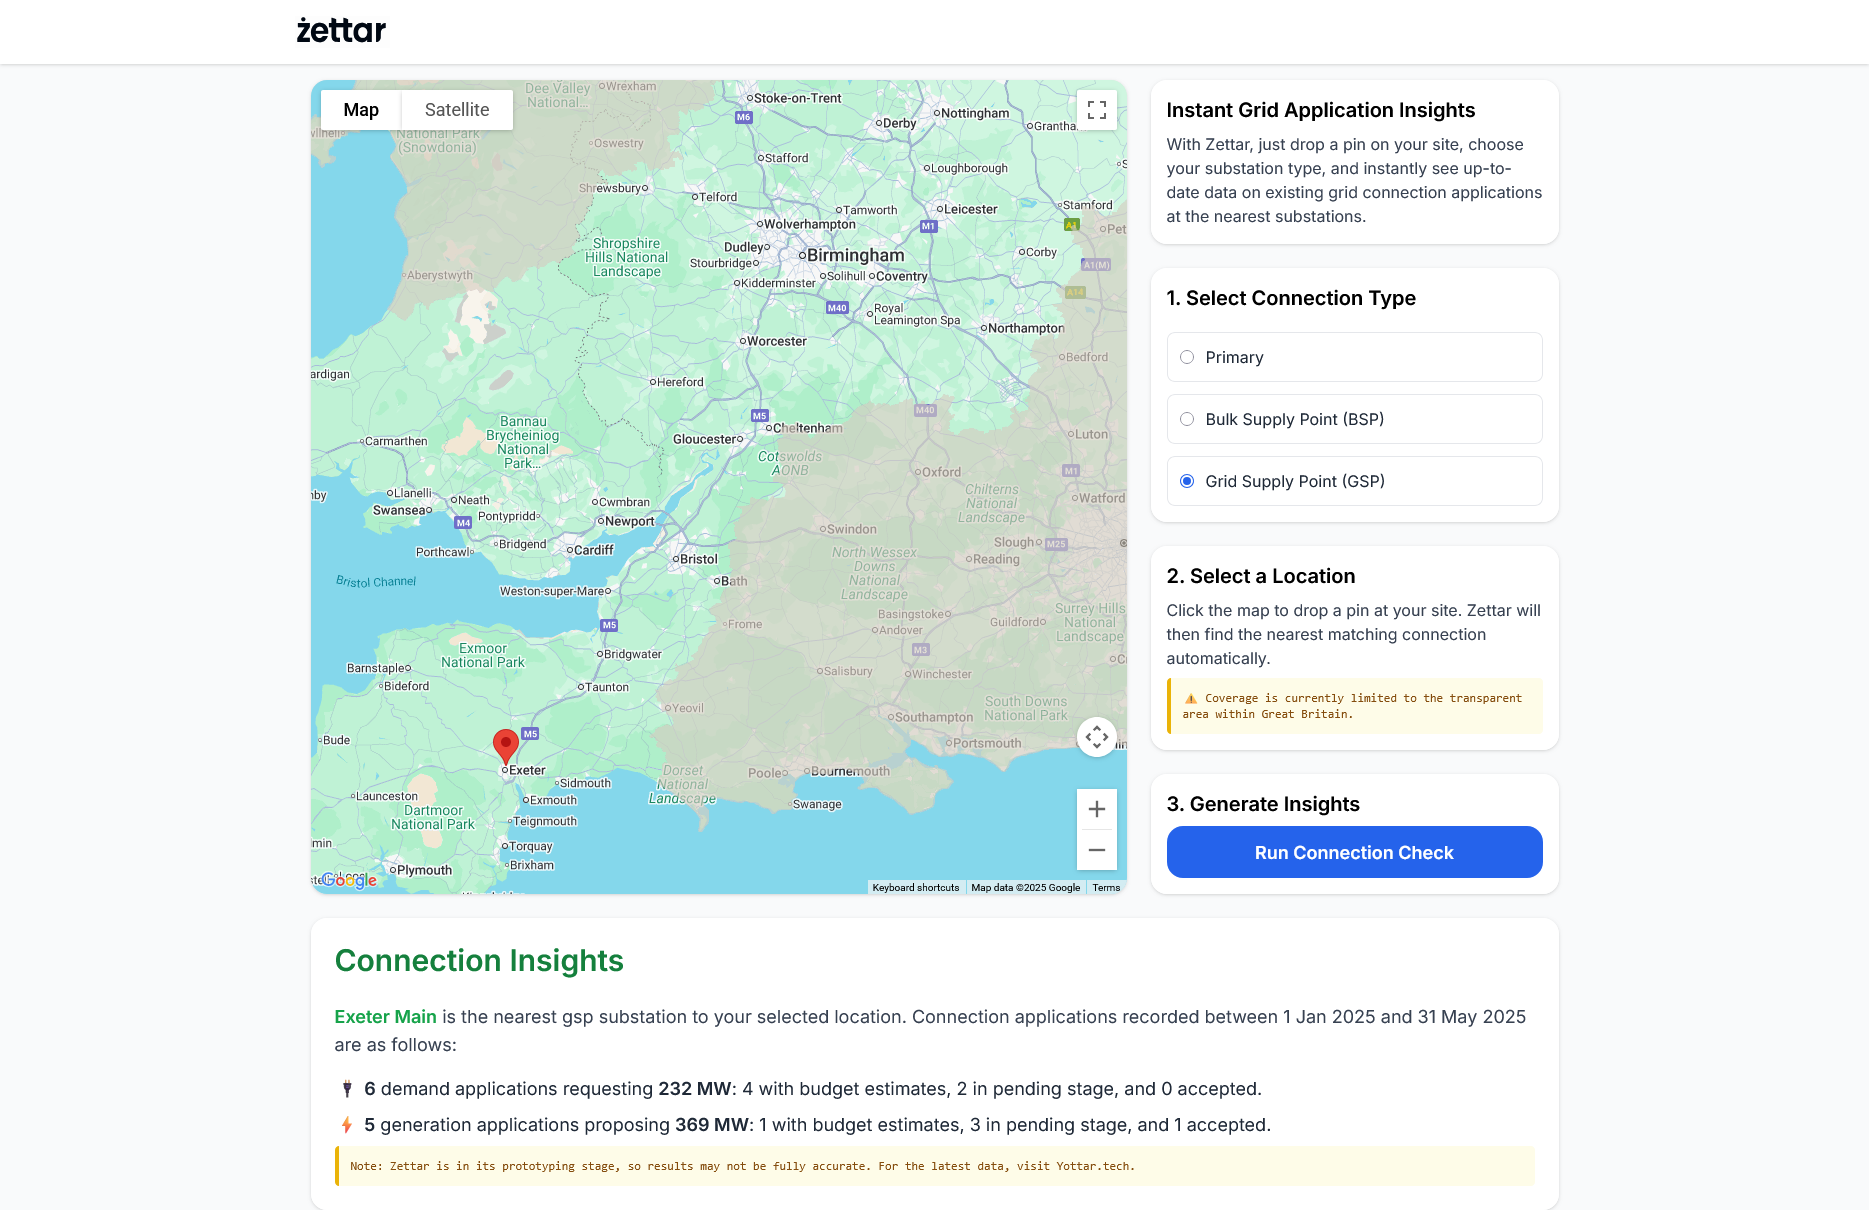
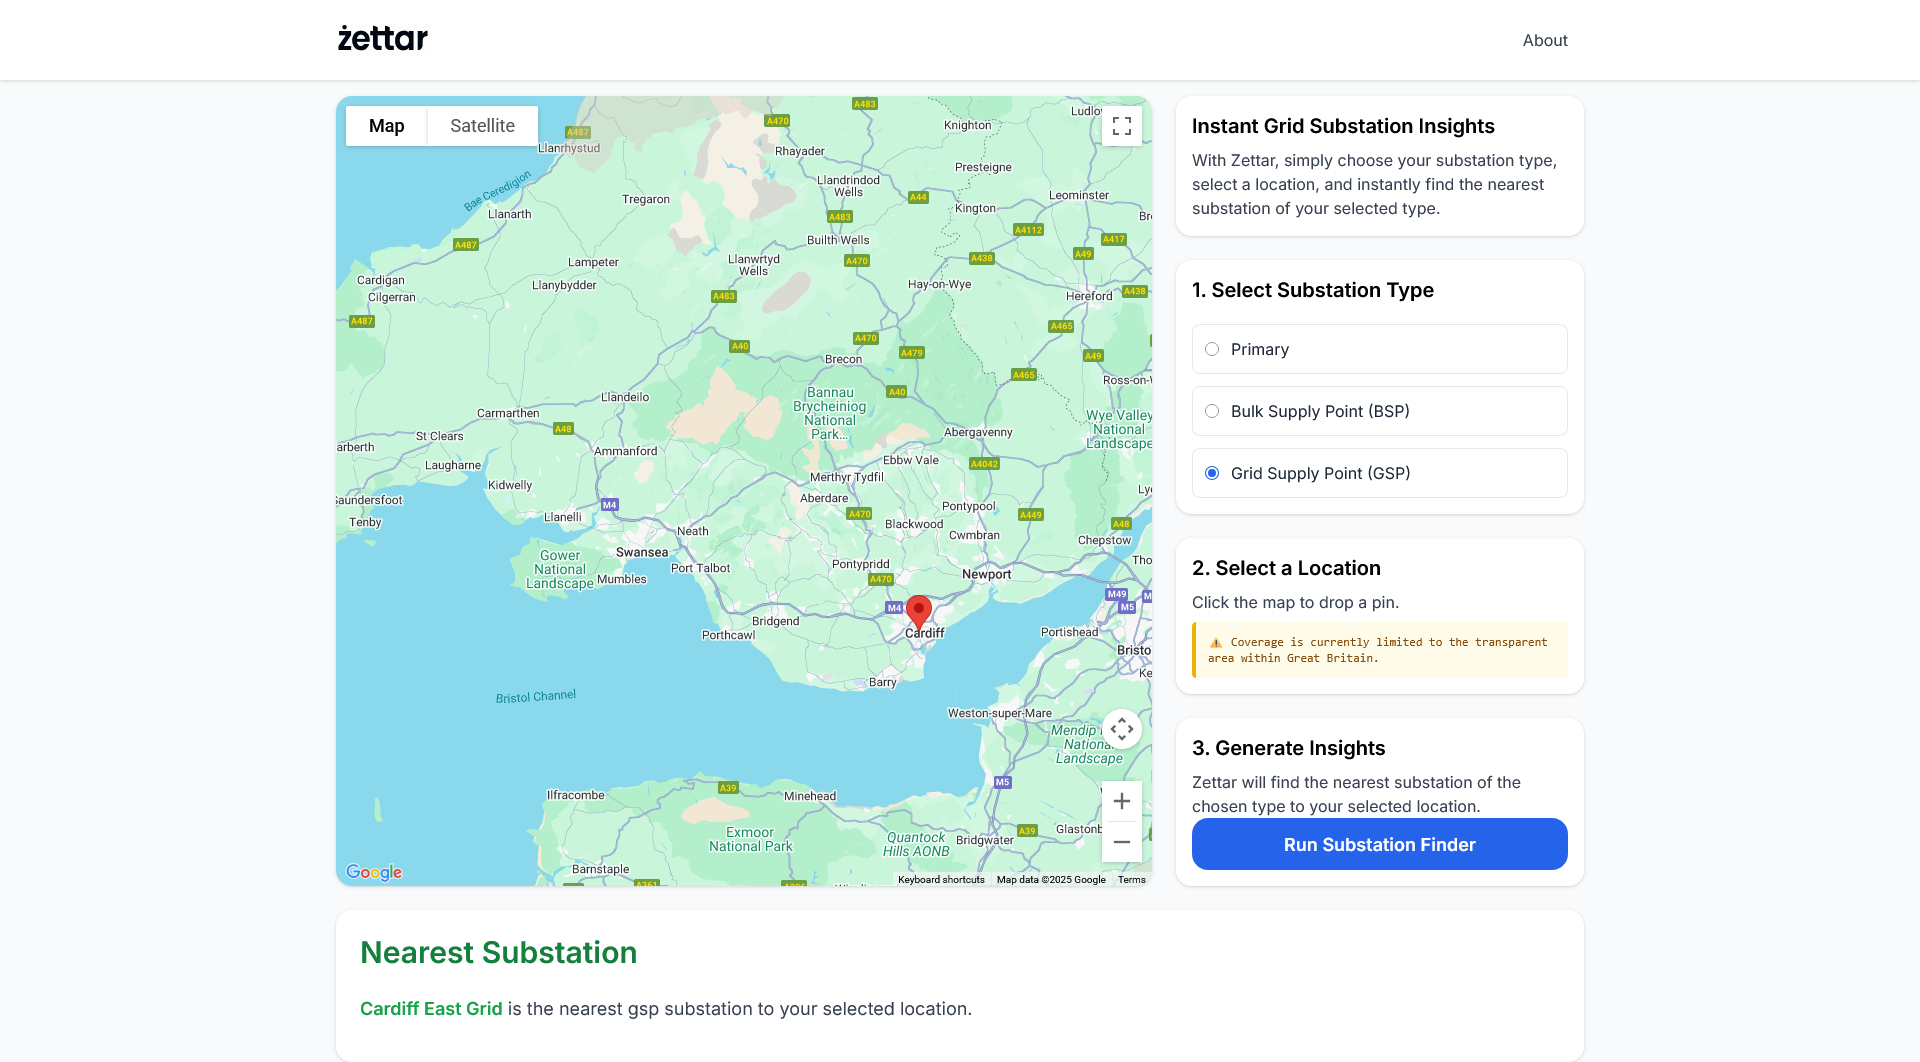
docs(README): update to account for change in scope

Changed region(s): [[0.1552, 0.0, 0.8379, 0.9633], [0.7758, 0.0311, 0.8068, 0.0621]]

diff --git a/docs/README.md b/docs/README.md
@@ -9,7 +9,7 @@
 </div>
 
 <p style="text-align: center;">
-  Zettar helps developers find viable grid connection points by turning messy DNO data into clean insights using geospatial technology and up-to-date application data. Available at <a href="https://www.zettar.tech" target="_blank">www.zettar.tech</a>.
+  Zettar helps individuals find their nearest electrical substation by turning messy DNO data into clean insights using geospatial technology. Available at <a href="https://www.zettar.tech" target="_blank">www.zettar.tech</a>.
 </p>
 
 ## 📷 Interface Preview  
@@ -19,15 +19,15 @@
 
 
 ## 📘 Product Overview
-Zettar is a platform that helps developers identify feasible Points of Connection (POCs) for new site projects - such as factories, renewable energy installations, or EV charging hubs - to the National Grid of Great Britain. It focuses specifically on analysing other applications at each connection point, cleaning and structuring raw, inconsistent DNO data into a standardised, easy‑to‑interpret format, making it instantly valuable for site selection.
+Zettar is a platform that helps users locate the nearest electrical substation by type. By entering a location and selecting a substation category (Primary, BSP, or GSP), users receive the closest matching substation.
 
-DNO application datasets are often released in messy, inconsistent formats, making it hard to understand current capacity or demand, or gauge how many projects are already in the queue. Zettar transforms this data into a clean, searchable, map‑based tool - giving developers a clear view of grid availability and enabling faster, smarter siting decisions.
+Substation location data from Distribution Network Operators (DNOs) is often messy and inconsistently formatted, making it difficult to identify nearby connection points. Zettar cleans and standardises this data into a searchable, map-based tool - offering a clear, reliable view of the grid’s infrastructure.
 
 ### Features
 
-- **Location & Connection Search:** Drop a pin and choose a connection type (Primary, BSP, or GSP) to find the nearest relevant substation.  
-- **Interactive Mapping:** Powered by the Google Maps API, the map-based UI makes it easy to explore potential sites visually.  
-- **Up-to-date DNO Data:** Displays generation and demand application data for substations including capacity, number of applicants, and application status.
+- **Location & Connection Search:** Drop a pin and choose a connection type (Primary, BSP, or GSP) to find the nearest relevant substation
+- **Interactive Mapping:** Powered by the Google Maps API, the map-based UI makes it easy to explore potential sites visually  
+- **Up-to-date DNO Data:** Retrieves the latest substation location data directly from DNO-provided sources, ensuring results reflect the most current network information
 
 
 
@@ -36,9 +36,8 @@ DNO application datasets are often released in messy, inconsistent formats, maki
 ###  Tech Stack
 - **Backend:** Python, Django  
 - **Frontend:** Alpine.js, Tailwind CSS  
-- **Database:** PostgreSQL with PostGIS extension  
-- **Data Sources:** National Grid DNO dataset (additional DNOs planned)  
-- **APIs:** Google Maps  
+- **Database:** PostgreSQL (PostGIS)  
+- **APIs:** Google Maps, OpenDataSoft (Northen Powergrid and UK Power Networks datasets), CKAN (National Grid datasets)    
 - **Deployment:** Dockerised environment hosted on Render.com
 
 ### Geospatial Intelligence
@@ -51,7 +50,7 @@ DNO application datasets are often released in messy, inconsistent formats, maki
 
 ### Wrangling & Processing
 
-Zettar’s Django backend provides a set of custom management commands that can be run to:
+Zettar’s Django backend includes a custom data pipeline, implemented through management commands that:
 1. Ingest raw, messy DNO datasets.  
 2. Standardise naming conventions, formats, and units.  
 3. Transform inconsistent source data into a clean, structured, user‑friendly format, and return to the user where required. 
@@ -65,58 +64,33 @@ There are 14 electricity distribution licence areas across Great Britain, operat
 </div>
 
 <p>
-  Each group publishes substation geolocation and application data independently. The links below reference the datasets currently used in this project. So far only National Grid data has been processed and integrated, with support for additional DNOs planned.
+  Each group publishes substation geolocation independently. The links below reference the datasets currently used in this project.
 </p>
 
-| Name | Description | Link |
-| :---: | :---: | :---: |
-| Primary Substation Locations (NGED) | Geographic locations of primary substations managed by National Grid DNOs | [View](https://connecteddata.nationalgrid.co.uk/dataset/primary-substation-location-easting-northings) |
-| New Connections (NGED) | Dataset of new connection applications to National Grid DNOs | [View](https://connecteddata.nationalgrid.co.uk/dataset/new-connections)  |
+| DNO Group | Title | Substation Geolocation Data Extracted | Source Link |
+| :---: | :---: | :---: | :---: |
+| NGED | Primary Substation Location (Easting / Northings) | Primary, BSP, GSP | [View](https://connecteddata.nationalgrid.co.uk/dataset/primary-substation-location-easting-northings) |
+| NP | Substation Sites List | Primary, BSP| [View](https://northernpowergrid.opendatasoft.com/explore/dataset/substation_sites_list/table/?disjunctive.site_purpose&disjunctive.dno_area&sort=-site_purpose) |
+| NP | Northern Powergrid DFES GSP - Portal Format | GSP | [View](https://northernpowergrid.opendatasoft.com/explore/dataset/northern-powergrid-dfes-gsp-portalformat/information/?disjunctive.licence_area&disjunctive.scenario_name&disjunctive.voltage_level&disjunctive.substation&disjunctive.year&sort=substation) |
+UKPN | UK Power Networks Grid and Primary Sites | Primary, BSP | [View](https://ukpowernetworks.opendatasoft.com/explore/dataset/grid-and-primary-sites/information/?disjunctive.local_authority&disjunctive.powertransformercount) |
+UKPN | Grid Supply Points Overview | GSP | [View](https://ukpowernetworks.opendatasoft.com/explore/dataset/ukpn-grid-supply-points-overview/table/) |
+
+
 
 ###  Dataset Quality Commentary
 
-The data is inconsistently provided in various formats, requiring separate cleaning for each dataset. While some datasets were more accessible than others, none could be integrated without significant preprocessing. Below is a summary of my thoughts on the accessibility of each dataset.
+The data is published in a variety of inconsistent formats, requiring tailored cleaning for each dataset. While some sources were more accessible than others, none could be integrated without substantial preprocessing.
 
-| DNO | Substation Geolocation Data Quality | Substation Application Data Quality |
-| :---: | :---: | :---: |
-| UK Power Networks |  Medium | Medium |
-| National Grid Electricity Distribution | Medium | Medium |
-| SP Energy Networks | Low | Low |
-| Northern Powergrid | High | High |
-| Electricity North West | High | Medium |
-| Scottish and Southern Electricity Networks | Low | Low |
+A case study using NGED data highlighted the challenges: substation types were not stored in a dedicated column but embedded within the name field using inconsistent and informal labels—such as "Primary Substation", "S/S", "S/Stn", "Power Station", "Primary", and "S Stn."—making standardisation non-trivial.
 
-An illustrative case study with NGED revealed the inconsistent ways substations were labeled in the dataset. Rather than using a dedicated column for substation type, the type was often embedded within the name itself with inconsistent formatting - examples include "Primary Substation", "S/S", "S/Stn", "Power Station", "Primary", and "S Stn.". Similarly, voltage values were inconsistently presented as "kv", "kV", "Kv", or "KV". While many of these variations didn’t directly affect data accuracy, some entries were so unstructured that informed assumptions had to be made during cleaning and processing.
-
-### Schema Diagram
-
-<div align="center" style="margin-bottom: 10px;">
-  <img src="images/db_schema_drawSQL.png" style="width:100%; height:auto;">
-</div>
 
 ## 🔍 Retrospective
 
-### Data Cleaning and Processing 
+The main takeaway was just how inconsistent and poorly structured the source datasets were. The data tended to be messy, without standard formatting, and even requiring informed assumptions to be usable. Each DNO published their data differently, meaning a separate ingestion and cleaning pipeline was needed for each one.
 
-Although the dataset was relatively small, it required extensive wrangling due to inconsistent formats and numerous quirks in the source data. I initially tackled the problem using a purely functional approach, with dispatch functions directing the processing flow. This allowed me to move quickly, uncover the underlying patterns, and implement the core logic.
+Key takeaway: even modest datasets can lead to significant engineering effort when sourced from unstandardised, manually maintained public data.
 
-The method worked well for the first datasets (NGED) but proved difficult to extend when I moved on to the UKPN datasets. Even so, starting functionally was the right call - it allowed Zettar to process at least one dataset within the time available fully. Had I started with creating a sophisticated data-wrangling pipeline, perhaps based on object-oriented design, I may not have been able to complete even a single DNO, and therefore would have no prototype to demonstrate. 
-
-In retrospect, the optimal approach would have been to begin functionally, then refactor into a unified data-wrangling system once the core logic was in place. Designing the system after gaining familiarity with the data’s quirks would have ensured it reflected its true complexity, rather than assumptions made too early. Perhaps the key lesson is to fully understand the complete family of datasets before committing to the computational processing.
-
-
-### Code Style, Conventions, and Structure
-
-While I applied coding conventions and maintained a readable structure within the Django setup, these were introduced on a case-by-case basis rather than through a unified process. This approach worked well for a medium-sized personal project and supported rapid delivery, but it also meant conventions were not entirely consistent across the repository, and some areas could benefit from restructuring.
-
-A lightweight, repeatable process for integrating style and quality checks, such as automated linting from the outset, could have preserved the project’s pace while ensuring a coherent feel throughout. For instance, I could have made greater use of Django’s app functionality to separate concerns more cleanly.
-
-### Testing
-
-Testing was applied to key functions and proved valuable in catching issues early. However, broader coverage - particularly for the supporting data-processing functions - would have strengthened the project. As with code styling, a regular, built-in testing rhythm could have ensured consistency without slowing development.
 
 ## 🧭 Product Roadmap
 
-- **Full DNO Coverage**: Currently, Zettar only integrates data from the National Grid DNO. The goal is to expand coverage across all six DNO groups in Great Britain. Each dataset is published in a different format, so this expansion will require tailored data cleaning for each group
-- **Demand Side Integration**: At present, Zettar focuses on formal generation and demand applications at substations. However, incorporating informal demand indicators - such as developer interest tracked within Zettar - could enhance site selection insights. This would need to be implemented carefully to avoid creating a self-fulfilling feedback loop.
-- **Get more informative description of DNO data**: Beyond inconsistent formatting, raw DNO datasets often lack clear or useful descriptions. Key information is missing or ambiguous, leading to assumptions during processing. Incorporating clarification requests directly into Zettar could make the tool more self-sufficient - helping users understand the data without needing to contact DNOs themselves, which can be time-consuming.
+The next step is to expand Zettar’s coverage to include a broader range of energy-related datasets. While there is a wealth of valuable data available, much of it remains fragmented and inconsistently formatted across different DNOs. The goal is to gradually integrate these sources into a unified, structured platform - transforming what is currently a scattered and messy landscape into a coherent and accessible view of the UK’s energy data.
